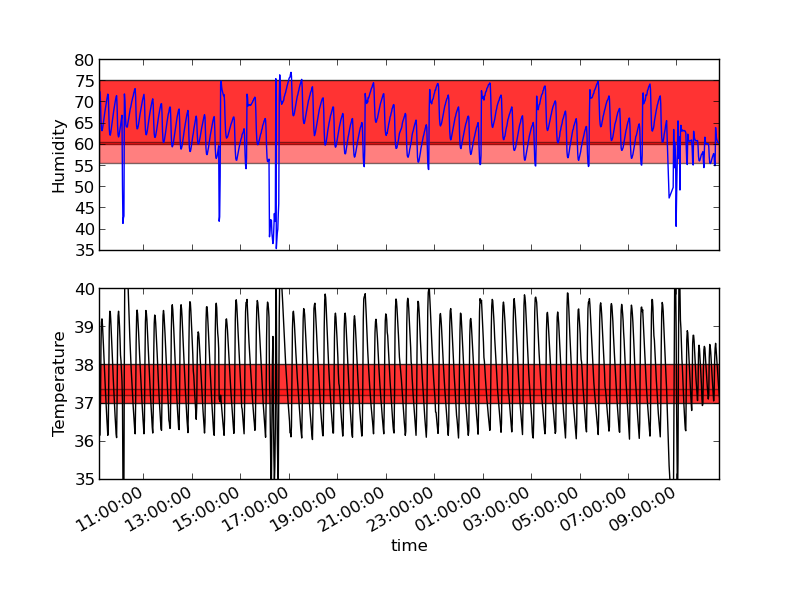
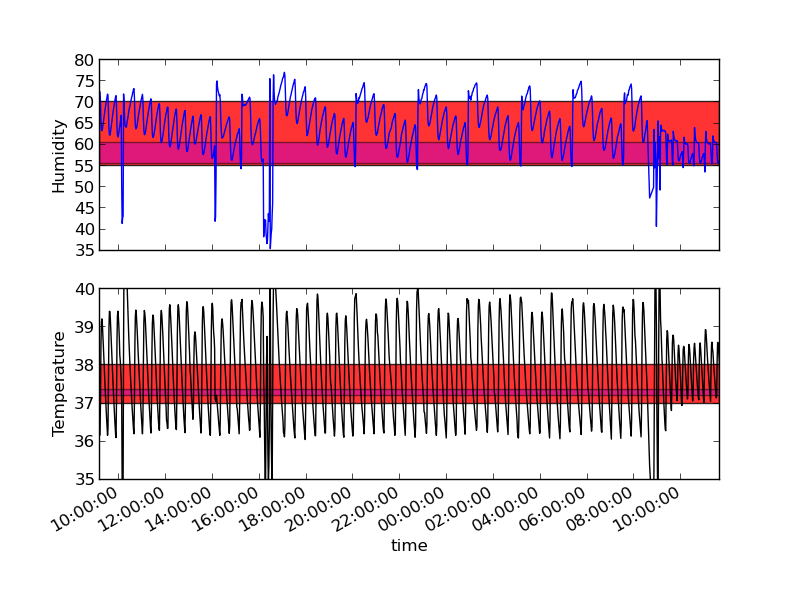
Added support to timezones

Changed region(s): [[0.0625, 0.48, 0.9062, 0.9], [0.125, 0.12, 0.9062, 0.42]]

diff --git a/Raspberry_files/charts.py b/Raspberry_files/charts.py
@@ -7,7 +7,9 @@ from datetime import datetime
 import matplotlib.pyplot as plt
 import pandas as pd
 import numpy as np
+import pytz
 
+MAD=pytz.timezone('Europe/Madrid')
 datetime_format = '%Y-%m-%d %H:%M:%S'
 
 temp_param_MAX = 37.35
@@ -16,10 +18,8 @@ temp_MIN = 37.0
 temp_MAX = 38.0
 humi_param_MAX = 60.5
 humi_param_MIN = 55.5
-humi_MIN = 60.0
-humi_MAX = 75.0
-
-gray_color = '#778899'
+humi_MIN = 55.0
+humi_MAX = 70.0
 
 server = "192.168.0.110"
 host_username = "pi"
@@ -108,18 +108,21 @@ def generate_comparing_temperature_with_dates_and_save(thermo_dates, thermo_temp
 def generate_thermo_plot_and_save(thermo_dates, thermo_temps, thermo_status, temp_param_MAX, temp_param_MIN, temp_MAX, temp_MIN, temp_limit_SUP, temp_limit_INF):
 	plt.title('Data from thermometer')
 	# First subplot
-	plt.subplot(2, 1, 1)
-	yticks = ['BAD', 'GOOD']
-	y=[0,1]
-	plt.yticks(y,yticks)
-	plt.plot(thermo_dates,thermo_status)
-	plt.ylim(-0.1, 1.1)
+	# plt.subplot(2, 1, 1)
+	# yticks = ['BAD', 'GOOD']
+	# y=[0,1]
+	# plt.yticks(y,yticks)
+	# plt.plot(thermo_dates,thermo_status)
+	# plt.ylim(-0.1, 1.1)
 	# Second subplot
-	plt.subplot(2, 1, 2)
-	plot_date(thermo_dates, thermo_temps, 'k-')
+	#plt.subplot(2, 1, 2)
+	plot_date(thermo_datesx, thermo_temps, 'k-', tz=MAD)
 	plt.ylim(temp_limit_INF, temp_limit_SUP)
+	y=np.arange(temp_limit_INF, temp_limit_SUP, 0.5)
+	plt.grid()
+	plt.yticks(y)
 	plt.axhspan(temp_MIN, temp_MAX, facecolor='r', alpha=0.8)
-	plt.axhspan(temp_param_MIN, temp_param_MAX, facecolor='r', alpha=0.5)
+	plt.axhspan(temp_param_MIN, temp_param_MAX, facecolor='m', alpha=0.5)
 	plt.gcf().autofmt_xdate()
 	plt.xlabel('time')
 	plt.ylabel('Temperature')
@@ -131,16 +134,16 @@ def generate_SHT1x_plot_and_save(SHT1x_dates, SHT1x_temps, SHT1x_humis, humi_par
 	plt.title('Data from SHT1x')
 	# First subplot
 	plt.subplot(2, 1, 1)
-	plt.plot(SHT1x_dates, SHT1x_humis)
+	plt.plot(SHT1x_dates, SHT1x_humis, tz=MAD)
 	plt.axhspan(humi_MIN, humi_MAX, facecolor='r', alpha=0.8)
-	plt.axhspan(humi_param_MIN, humi_param_MAX, facecolor='r', alpha=0.5)
+	plt.axhspan(humi_param_MIN, humi_param_MAX, facecolor='m', alpha=0.5)
 	plt.ylabel('Humidity')
 	# Second subplot
 	plt.subplot(2, 1, 2)
-	plot_date(SHT1x_dates, SHT1x_temps, 'k-')
+	plot_date(SHT1x_dates, SHT1x_temps, 'k-', tz=MAD)
 	plt.ylim(temp_limit_INF, temp_limit_SUP)
 	plt.axhspan(temp_MIN, temp_MAX, facecolor='r', alpha=0.8)
-	plt.axhspan(temp_param_MIN, temp_param_MAX, facecolor='r', alpha=0.5)
+	plt.axhspan(temp_param_MIN, temp_param_MAX, facecolor='m', alpha=0.5)
 	plt.gcf().autofmt_xdate()
 	plt.xlabel('time')
 	plt.ylabel('Temperature')	
